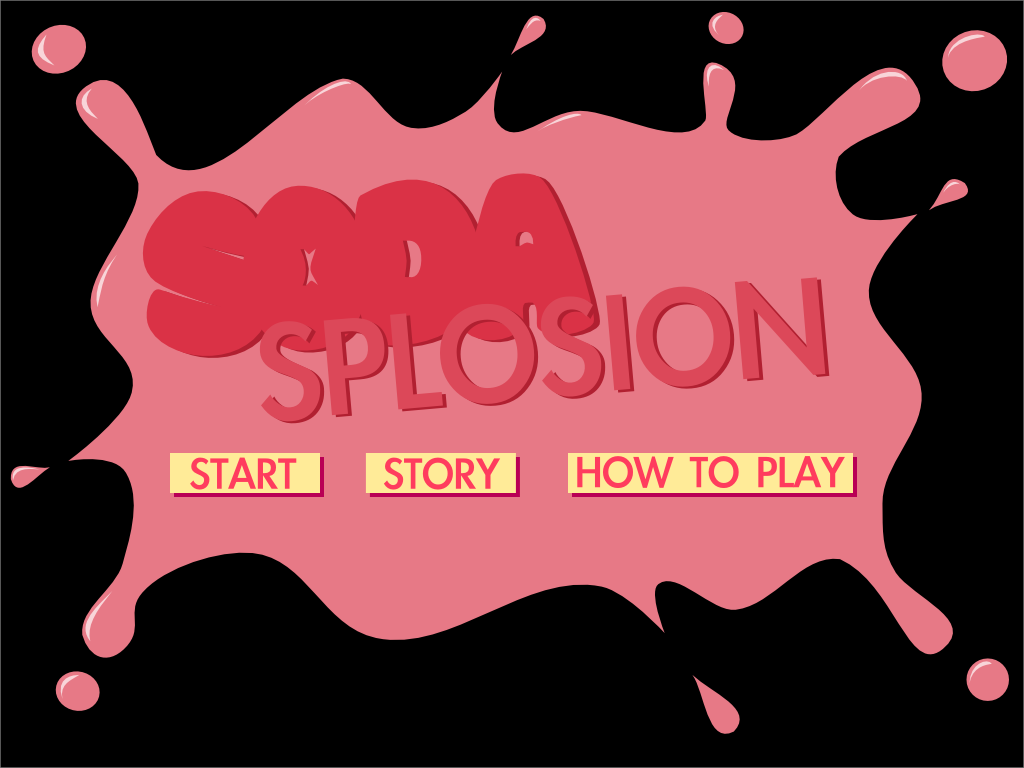
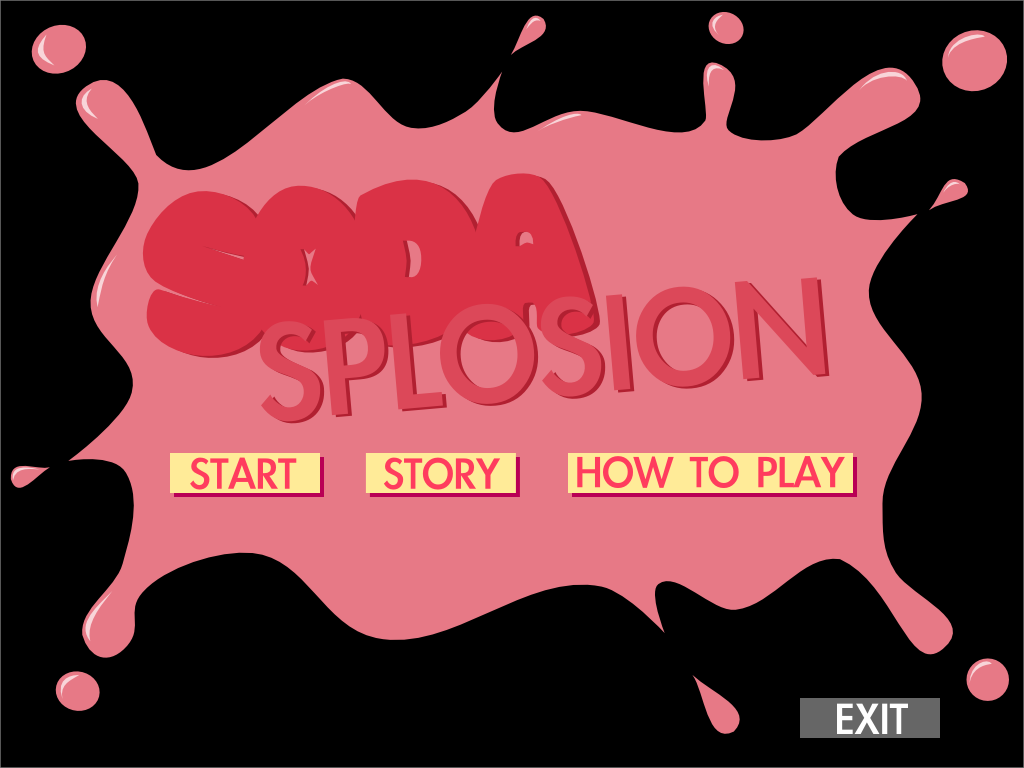
Graphical and menu changes

Changed region(s): [[0.7812, 0.9062, 0.9375, 0.9688]]

diff --git a/src/SodasplosionGrid.java b/src/SodasplosionGrid.java
@@ -66,15 +66,10 @@ public class SodasplosionGrid extends JPanel
 	private Image playerImages[];
 	private int playerOneImg = 0;
 	private int playerTwoImg = 4;
-<<<<<<< HEAD
-	private Timer timer;
-	
-=======
 	
 	// Timers
 	private Timer explosions;
 
->>>>>>> origin/master
 	// Game option
 	private Font standardFont = new Font("Apple LiGothic", Font.BOLD, 32);
 	private Font largeFont = new Font("Apple LiGothic", Font.BOLD, 48);
@@ -83,10 +78,13 @@ public class SodasplosionGrid extends JPanel
 	private int totalWins = 1;
 	private int mapType = 1;
 
-	// Rectangles for in-game sidebar
-	private Rectangle IN_GAME_BACK = new Rectangle(15, 631, 100, 70);
-	private Rectangle EXIT_BUTTON = new Rectangle(15, 711, 100, 45);
-
+	// In-game sidebar
+	private Rectangle IN_GAME_BACK = new Rectangle(15, 632, 100, 30);
+	private Rectangle IN_GAME_INSTRUCTIONS = new Rectangle (15, 678, 100, 30);
+	private Rectangle IN_GAME_EXIT = new Rectangle(15, 724, 100, 30);
+	private int inGameHelp = 0;
+	private Image inGameInstructions1, inGameInstructions2;
+	
 	// Rectangles for the menu screens
 	private Rectangle START_BUTTON = new Rectangle(170, 453, 150, 40);
 	private Rectangle STORY_BUTTON = new Rectangle(366, 453, 150, 40);
@@ -98,7 +96,9 @@ public class SodasplosionGrid extends JPanel
 	private Rectangle CLASSIC = new Rectangle(560, 73, 150, 150);
 	private Rectangle SHOWDOWN = new Rectangle(787, 73, 150, 150);
 	private Rectangle PLAY_BUTTON = new Rectangle(265, 518, 530, 150);
+	private Rectangle MENU_EXIT = new Rectangle(800, 698, 140, 40);
 	private Rectangle[] TOTAL_WINS = new Rectangle[10];
+	
 
 	// Images for the menu screen
 	private Image mainMenu, startMenu, instructions1, instructions2, story;
@@ -144,7 +144,9 @@ public class SodasplosionGrid extends JPanel
 		story = new ImageIcon("img/Story.png").getImage();
 		roundWin = new ImageIcon("img/RoundWin.png").getImage();
 		gameWin = new ImageIcon("img/GameWin.png").getImage();
-
+		inGameInstructions1 = new ImageIcon("img/InstructionsIG1.png").getImage();
+		inGameInstructions2 = new ImageIcon("img/InstructionsIG2.png").getImage();
+		
 		intro = Applet.newAudioClip(getCompleteURL("sound/intro.wav"));
 		storyline = Applet.newAudioClip(getCompleteURL("sound/story.wav"));
 		howToPlay = Applet.newAudioClip(getCompleteURL("sound/howToPlay.wav"));
@@ -690,13 +692,39 @@ public class SodasplosionGrid extends JPanel
 					{
 						resetGame(ROUND);
 					}
-					if (IN_GAME_BACK.contains(pressed))
+					
+					if (inGameHelp == 0)
 					{
-						menu = MAIN_MENU;
+						if (IN_GAME_BACK.contains(pressed))
+						{
+							menu = MAIN_MENU;
+						}
+						else if(IN_GAME_INSTRUCTIONS.contains(pressed))
+						{
+							inGameHelp = 1;
+						}
+						else if (IN_GAME_EXIT.contains(pressed))
+						{
+							System.exit(0);
+						}
 					}
-					else if (EXIT_BUTTON.contains(pressed))
+					else
 					{
-						System.exit(0);
+						if (BACK_MENU_BUTTON.contains(pressed))
+						{
+							inGameHelp = 0;
+						}
+						else if (PAGE_BUTTON.contains(pressed))
+						{
+							if (inGameHelp == 1)
+							{
+								inGameHelp = 2;
+							}
+							else
+							{
+								inGameHelp = 1;;
+							}
+						}
 					}
 				}
 
@@ -774,6 +802,10 @@ public class SodasplosionGrid extends JPanel
 				{
 					howToPlay.play();
 					menu = INSTRUCTIONS_1;
+				}
+				else if (MENU_EXIT.contains(pressed))
+				{
+					System.exit(0);
 				}
 			}
 			repaint();
@@ -1017,8 +1049,17 @@ public class SodasplosionGrid extends JPanel
 						g.drawString("Player Two Wins Round!", 312, 175);
 					}
 					g.setFont(standardFont);
-					g.drawString("Click anywhere to continue", 370, 600);
-				}	
+					g.drawString("Click anywhere to continue...", 362, 600);
+				}
+			}
+			
+			if(inGameHelp == 1)
+			{
+				g.drawImage(inGameInstructions1, 0, 0, this);
+			}
+			else if (inGameHelp == 2)
+			{
+				g.drawImage(inGameInstructions2, 0, 0, this);
 			}
 		}
 		else if (menu == MAIN_MENU)
